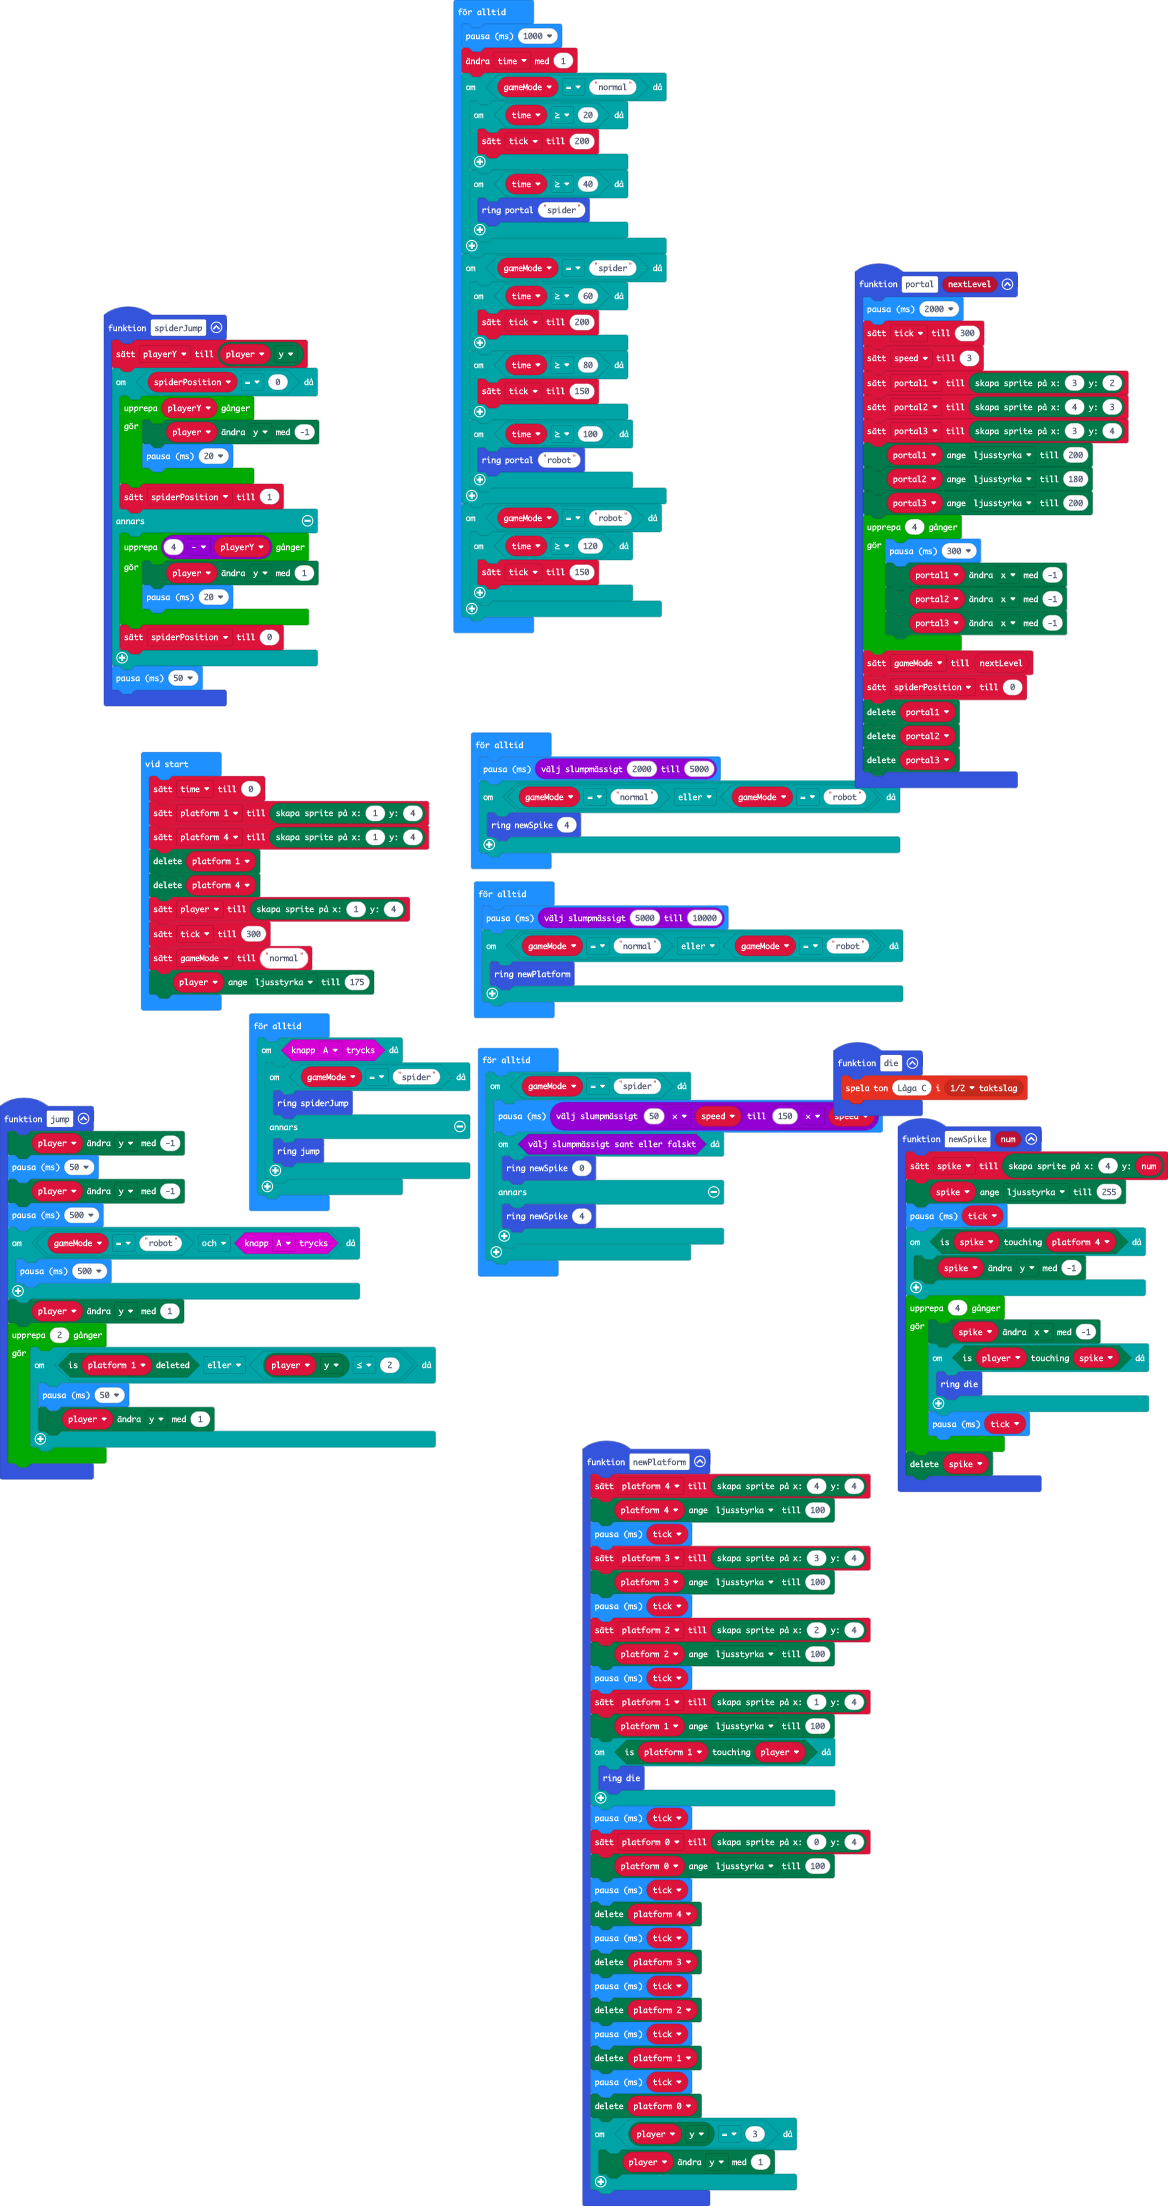
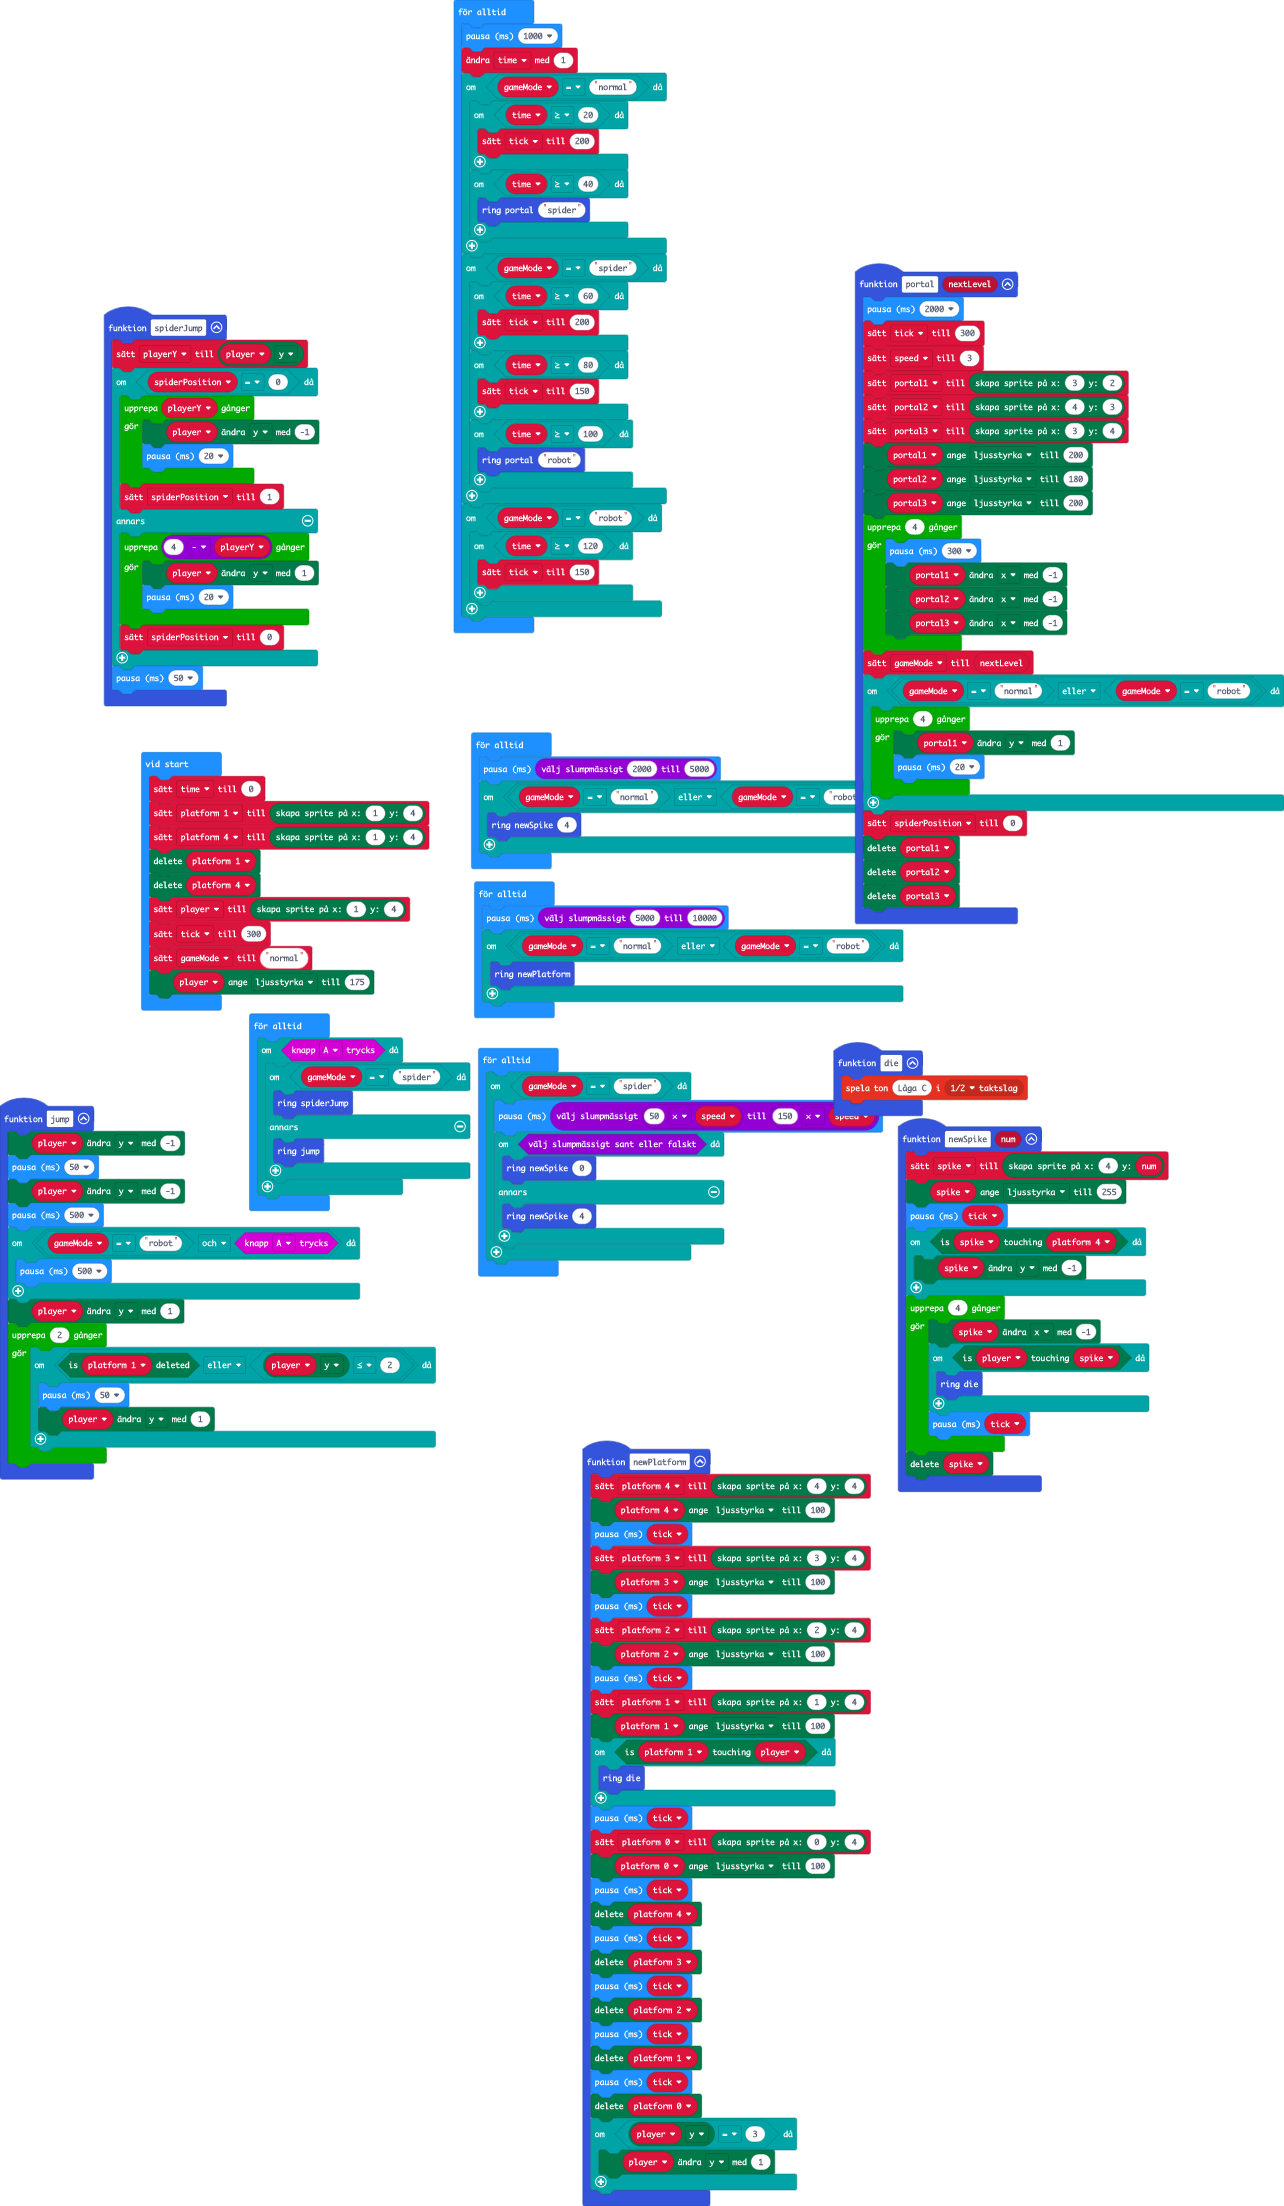
When changing spider to normal/robot, the player will drop to the floor

Changed region(s): [[0.0, 0.0, 1.0, 1.0], [0.3082, 0.524, 0.339, 0.5549]]

diff --git a/main.ts b/main.ts
@@ -99,6 +99,12 @@ function portal (nextLevel: string) {
         portal3.change(LedSpriteProperty.X, -1)
     }
     gameMode = nextLevel
+    if (gameMode == "normal" || gameMode == "robot") {
+        for (let index = 0; index < 4; index++) {
+            portal1.change(LedSpriteProperty.Y, 1)
+            basic.pause(20)
+        }
+    }
     spiderPosition = 0
     portal1.delete()
     portal2.delete()
